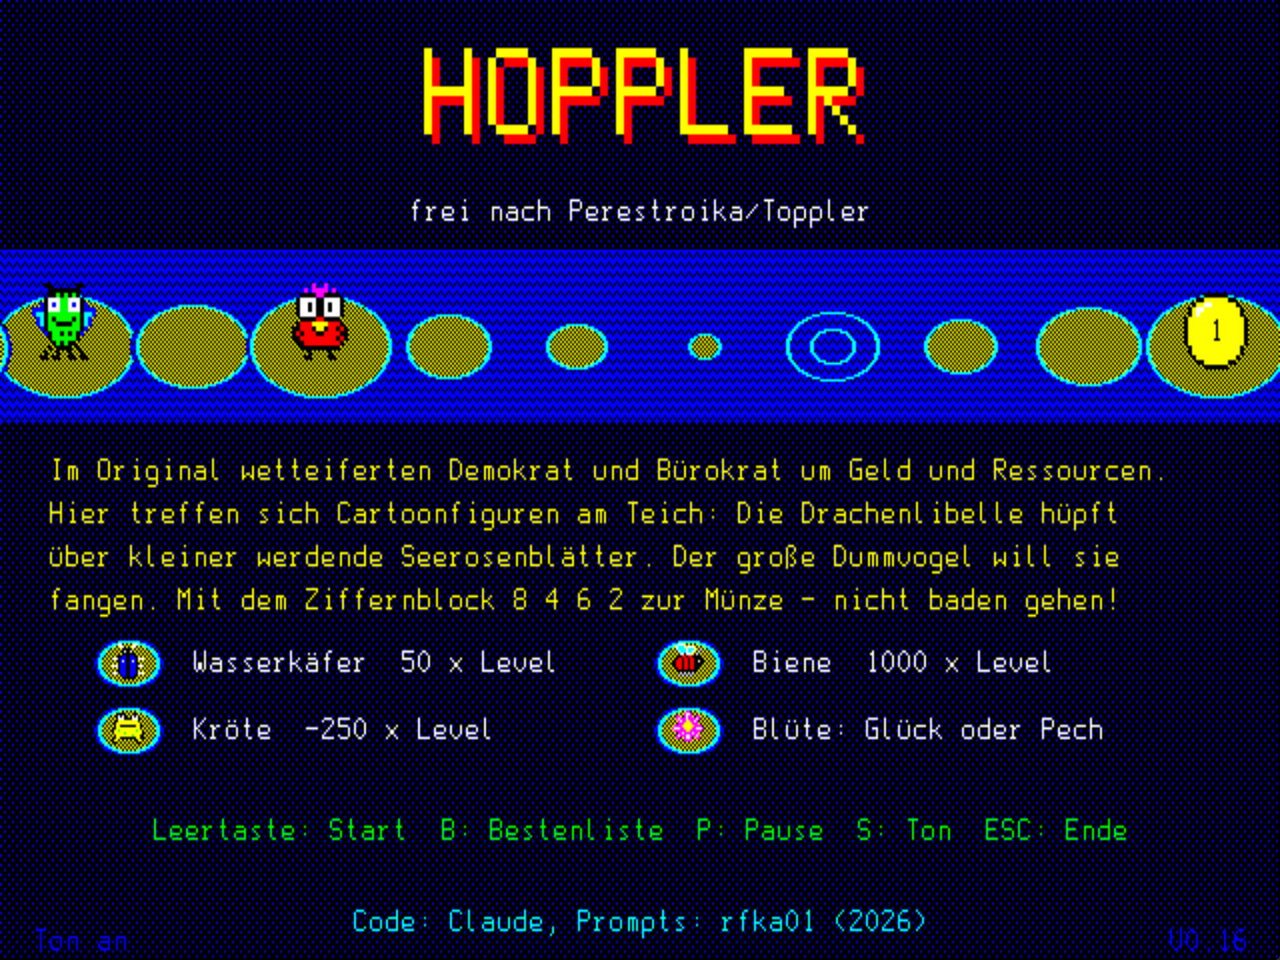
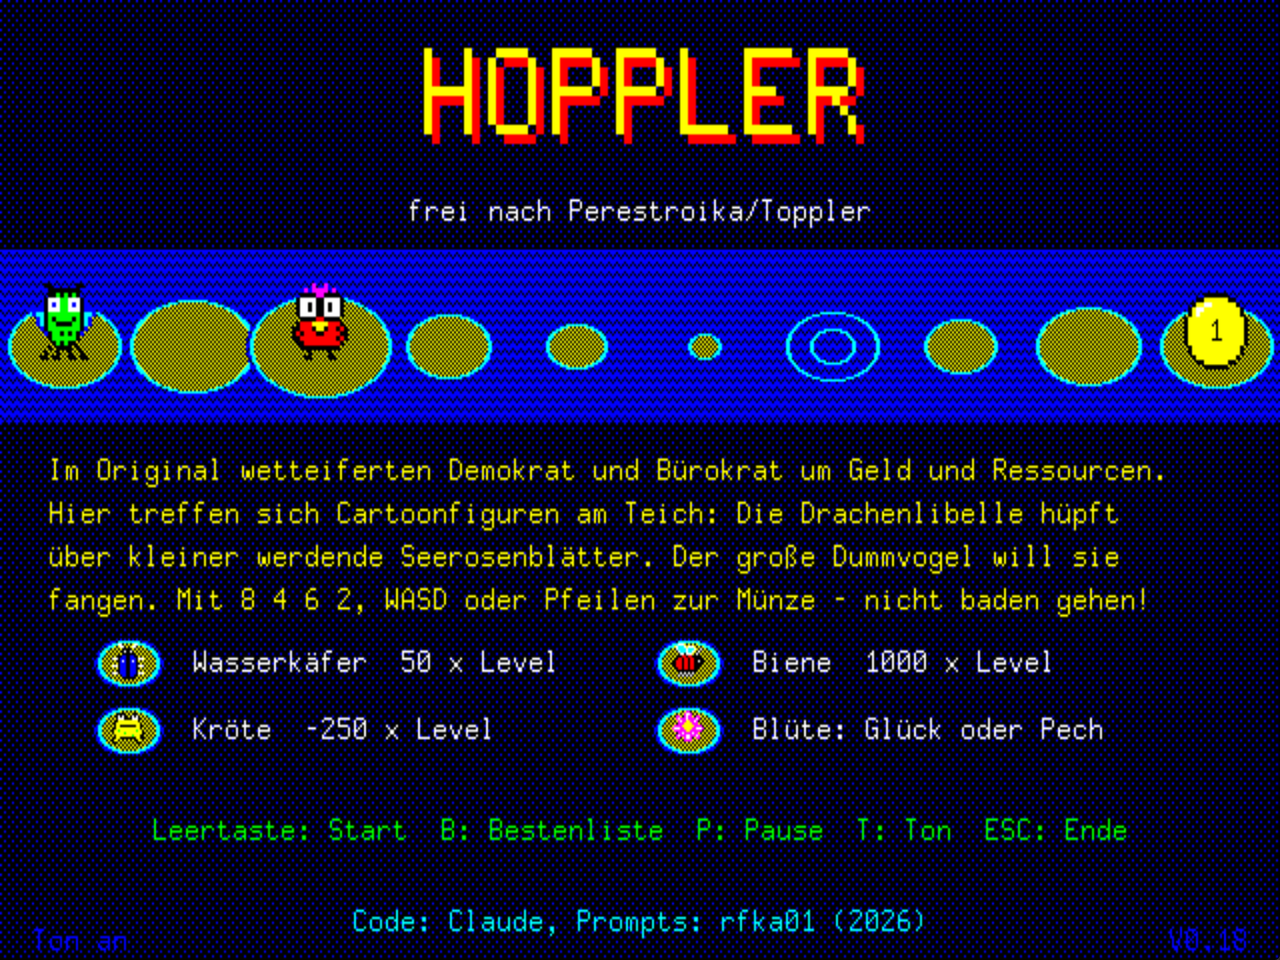
Hoppler: Titel-Screenshot V0.18 mit neuer Schrift
Claude-Session: https://claude.ai/code/session_01F8UBcZWUZz6fbgvk4TZ9Xo

diff --git a/hoppler/README.md b/hoppler/README.md
@@ -7,7 +7,7 @@ Version 0.18 (08.10.2026, Testfassung / test release) – Diskette / disk image:
 ![Titelbild / title screen](screenshots/titel.png)
 ![Level 1](screenshots/level1.png)
 
-*Screenshots: MAME, Treiber / driver `dmv` (Version 0.16)*
+*Screenshots: MAME, Treiber / driver `dmv` (Titel / title V0.18, Level 1 V0.16)*
 
 ## Deutsch
 
